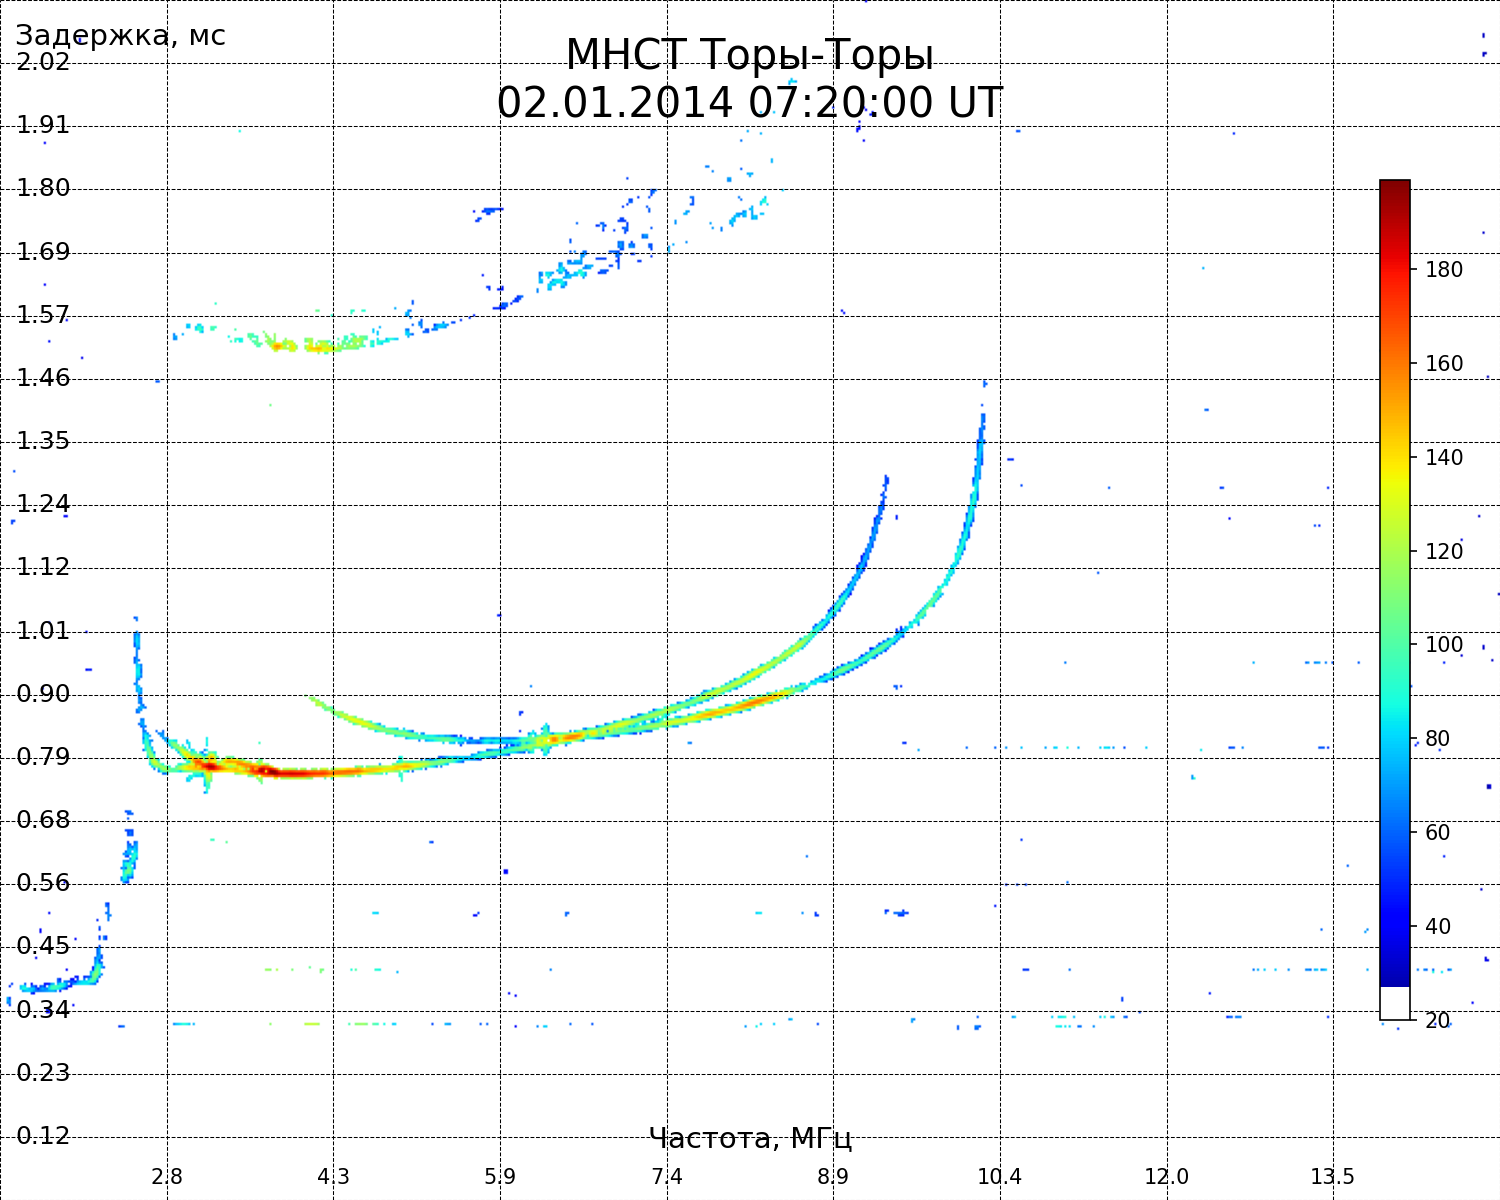
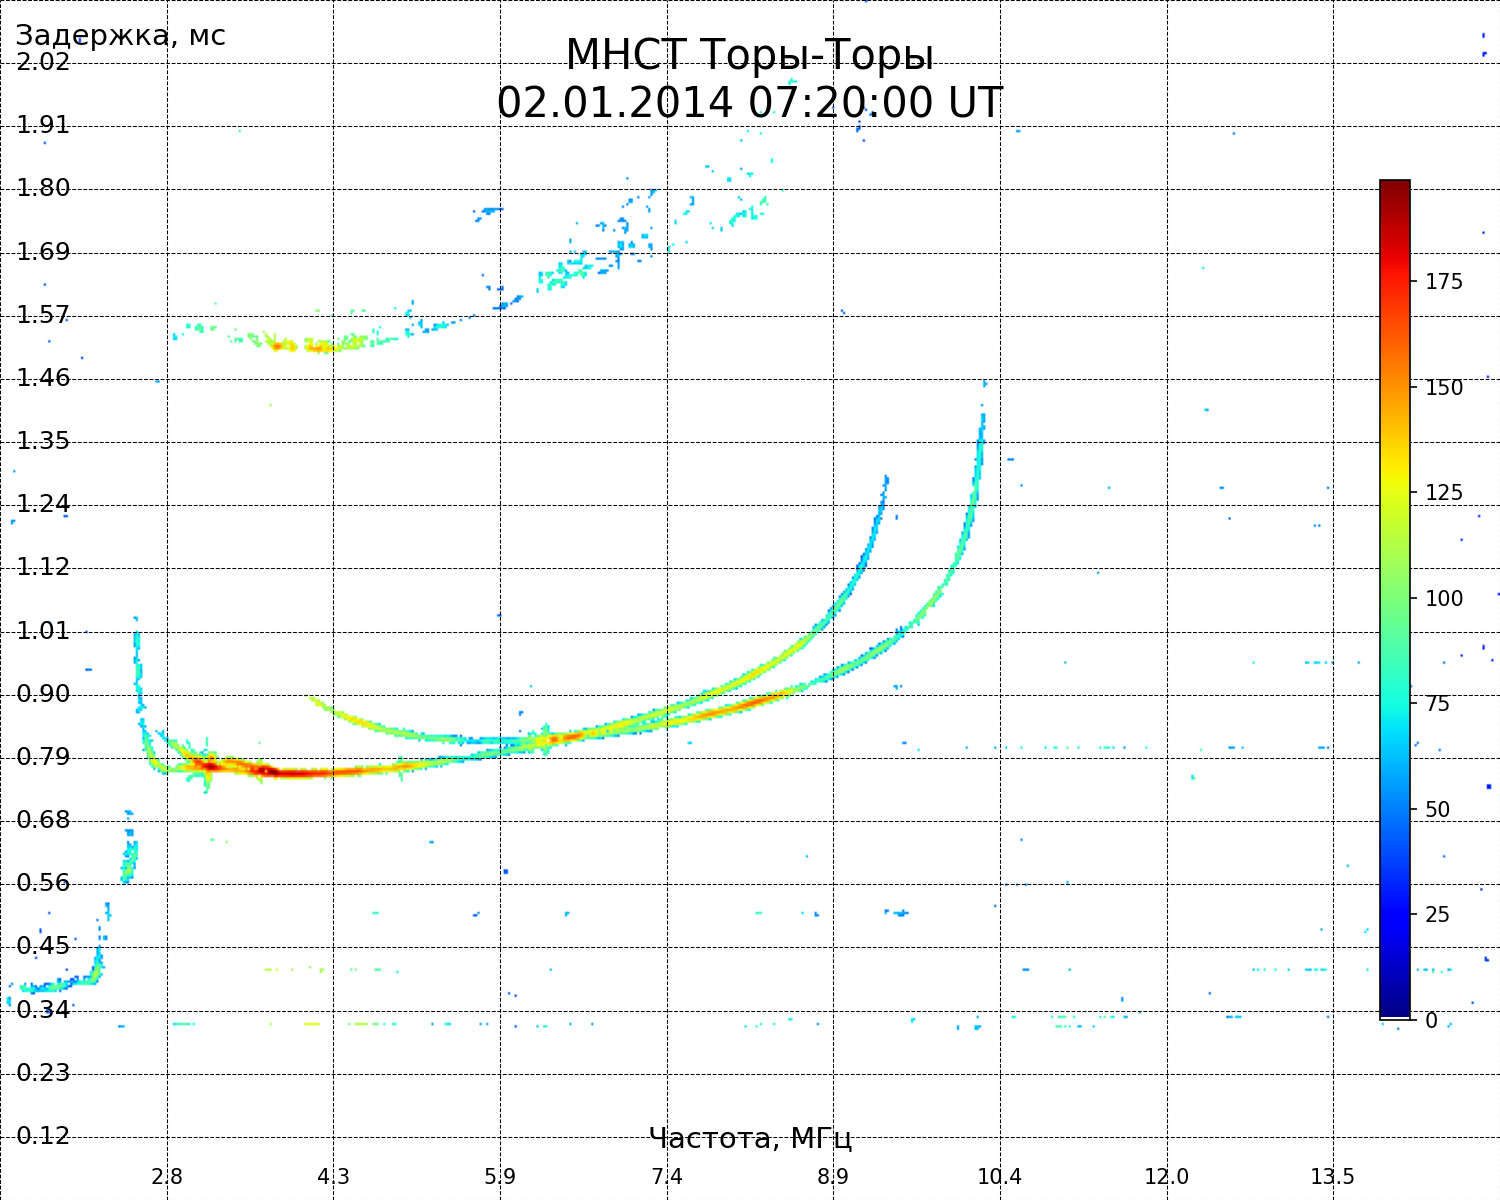
Closes #9; correct colorbasr and lib

diff --git a/main.py b/main.py
@@ -1,6 +1,220 @@
-from ionogram_visualizer import IonogramVisualizer, SimpleIonogramArrayBuilder
+from ionogram_visualizer import SimpleIonogramArrayBuilder
+# import ionread_python as ionread
+from ionogram_visualizer import  SimpleIonogramArrayBuilder
 import ionread_python as ionread
+import numpy as np
+from matplotlib import pyplot as plt
+from typing import Optional, Union
+import ionread_python as ionread
+from matplotlib.colors import ListedColormap
 
+class IonogramVisualizer:
+    """
+    Класс для визуализации ионограмм с настраиваемыми параметрами отображения.
+    """
+    
+    def __init__(self, style_settings: Optional[dict] = None):
+        """
+        Инициализация визуализатора с настройками стиля.
+        
+        :param style_settings: Словарь с настройками стиля matplotlib
+        """
+        self.default_style = {
+            'font.size': 12,
+            'text.color': 'black',
+            'figure.facecolor': 'black',
+            'axes.facecolor': 'black'
+        }
+        self.style_settings = style_settings or self.default_style
+        
+    def show_ionogram(
+        self,
+        ionogram: Union['ionread.Ionogram', None],
+        ion_arr: np.ndarray,
+        path: Optional[str] = None,
+        alphas: float = 0.5,
+        dpi: int = 100,
+        colorbar: bool = True,
+        figsize: tuple = (10, 8)
+    ) -> None:
+        """
+        Отображает ионограмму с настраиваемыми параметрами.
+        
+        :param ionogram: Объект ионограммы из ionread
+        :param ion_arr: Массив данных ионограммы
+        :param path: Путь для сохранения изображения
+        :param alphas: Прозрачность элементов (0-1)
+        :param dpi: Разрешение изображения
+        :param colorbar: Отображать цветовую шкалу
+        :param figsize: Размер фигуры (ширина, высота)
+        """
+        # Применение стиля
+        plt.style.use('default')
+        plt.rcParams.update(self.style_settings)
+        plt.rcParams.update({
+            'figure.dpi': dpi,
+            'savefig.dpi': dpi
+        })
+
+        # Создание фигуры с белым фоном
+        fig = plt.figure(figsize=figsize, facecolor='white')
+        ax = fig.add_axes([0, 0, 1, 1])
+        ax.set_facecolor('white')  # Устанавливаем белый фон для области данных
+        
+        # Получение границ данных
+        min_height = min(ionogram.data, key=lambda x: x.num_dist).dist 
+        max_height = max(ionogram.data, key=lambda x: x.dist).dist
+        min_freq = ionogram.passport.start_freq
+        max_freq = ionogram.passport.end_freq
+
+        # Создаем модифицированную цветовую карту с белым для низких значений
+        jet = plt.get_cmap('jet', 256)
+        newcolors = jet(np.linspace(0, 1, 256))
+        # Делаем первые N значений белыми (можно настроить в зависимости от ваших данных)
+        newcolors[0, :] = np.array([1, 1, 1, 1])  # белый цвет с полной непрозрачностью
+        white_jet = ListedColormap(newcolors)
+
+        # Отображение данных с белым фоном для низких значений
+        im = ax.imshow(
+            ion_arr,
+            origin='lower',
+            cmap=white_jet,
+            aspect='auto',
+            extent=[min_freq, max_freq, min_height, max_height]  # Отсекаем самые низкие значения
+        )
+        
+        # Настройка осей
+        self._configure_axes(ax, min_freq, max_freq, min_height, max_height, alphas)
+        
+        # Цветовая шкала
+        if colorbar:
+            self._add_colorbar(fig, im, alphas)
+
+        # Заголовок
+        first_line = f'{ionogram.passport.transmitter}-{ionogram.passport.receiver}'
+        second_line = f'{ionogram.passport.session_date} {ionogram.passport.session_time}'
+        title = f'{first_line}\n{second_line}'
+        ax.text(0.5, 0.97, title, transform=ax.transAxes, fontsize=20, color='black', ha='center', va='top', alpha=alphas)
+        
+        # Сохранение или отображение
+        if path:
+            plt.savefig(path, bbox_inches='tight', pad_inches=0, facecolor='white', dpi=dpi)
+        plt.close()
+
+        
+    
+    def _configure_axes(
+        self,
+        ax,
+        min_freq: float,
+        max_freq: float,
+        min_height: float,
+        max_height: float,
+        alphas: float
+    ) -> None:
+        """Настраивает оси и подписи."""
+        ax.set_xticks([])
+        ax.set_yticks([])
+        for spine in ax.spines.values():
+            spine.set_visible(False)
+        
+        # Сетка
+        freq_ticks = np.linspace(min_freq, max_freq, 10)
+        for freq in freq_ticks:
+            ax.axvline(
+                x=freq, 
+                color='black', 
+                linestyle='--', 
+                linewidth=0.5, 
+                alpha=alphas,
+                zorder=3  # Поверх imshow
+            )
+
+        # Горизонтальные линии (высоты)
+        height_ticks = np.linspace(min_height, max_height, 20)
+        for height in height_ticks:
+            ax.axhline(
+                y=height, 
+                color='black', 
+                linestyle='--', 
+                linewidth=0.5, 
+                alpha=alphas,
+                zorder=3
+            )
+    
+        
+        # Подписи шкал
+        y_ticks = np.linspace(min_height, max_height, 20)[1:-1]
+        for y in y_ticks:
+            ax.text(
+                min_freq + (max_freq - min_freq) * 0.01,
+                y,
+                f'{y/300:.2f}',
+                color='black', 
+                va='center',
+                alpha=alphas,
+                fontsize=12
+            )
+        
+        x_ticks = np.linspace(min_freq, max_freq, 10)[1:-1]
+        for x in x_ticks:
+            ax.text(
+                x,
+                min_height + (max_height - min_height) * 0.01,
+                f'{x/1000:.1f}',
+                color='black',
+                ha='center',
+                va='bottom',
+                alpha=alphas,
+                fontsize=10
+            )
+        
+        # Подписи осей
+        ax.text(
+            min_freq + (max_freq - min_freq) * 0.01,
+            max_height * 0.95+20,
+            'Задержка, мс', 
+            color='black', 
+            alpha=alphas,
+            fontsize=14,
+            va='top'
+        )
+        
+        ax.text(
+            (min_freq + max_freq) / 2,
+            min_height - (max_height - min_height) * 0.05 + 60,
+            'Частота, МГц',
+            color='black',
+            alpha=alphas,
+            fontsize=14,
+            ha='center'
+        )
+
+        
+    
+    def _add_colorbar(self, fig, im,alphas) -> None:
+        """Добавляет полностью прозрачную цветовую шкалу с полупрозрачными элементами."""
+        # Создаем ось для colorbar
+        cax = fig.add_axes([0.92, 0.15, 0.02, 0.7])
+        
+        # Добавляем colorbar
+        cbar = fig.colorbar(im, cax=cax)
+        
+        # Настройка прозрачности
+        cbar.ax.set_facecolor((0, 0, 0, 0))  # Полностью прозрачный фон
+        cbar.outline.set_edgecolor('black')   # Цвет границы
+        cbar.outline.set_alpha(alphas)          # Прозрачность границы
+        
+        # Делаем саму цветовую полосу полупрозрачной
+        cbar.solids.set_alpha(alphas)            # Прозрачность цветового градиента
+        
+        # Настройка текста и делений
+        cbar.ax.tick_params(colors='black', labelsize=10)
+        
+        # Дополнительные настройки для полной прозрачности
+        cbar.ax.patch.set_alpha(0)           # Прозрачность внутренней области
+        for spine in cbar.ax.spines.values(): # Прозрачность всех границ
+            spine.set_alpha(alphas)
 # Загрузка данных
 ionogram = ionread.read_ionogram('test_data/01_02_07_20_00.dat')
 
@@ -14,7 +228,6 @@ visualizer.show_ionogram(
     ionogram,
     ionogram_array,
     path="fullscreen_ionogram.png",
-    grid_alpha=1.0,
-    tick_alpha=1.0,
+    alphas=1.0,
     dpi=150
 )

diff --git a/ionogram_visualizer/visualizer.py b/ionogram_visualizer/visualizer.py
@@ -66,10 +66,10 @@ class IonogramVisualizer:
         max_freq = ionogram.passport.end_freq
 
         # Создаем модифицированную цветовую карту с белым для низких значений
-        jet = plt.cm.get_cmap('jet', 256)
+        jet = plt.get_cmap('jet', 256)
         newcolors = jet(np.linspace(0, 1, 256))
         # Делаем первые N значений белыми (можно настроить в зависимости от ваших данных)
-        newcolors[:10, :] = np.array([1, 1, 1, 1])  # белый цвет с полной непрозрачностью
+        newcolors[0, :] = np.array([1, 1, 1, 1])  # белый цвет с полной непрозрачностью
         white_jet = ListedColormap(newcolors)
 
         # Отображение данных с белым фоном для низких значений
@@ -78,8 +78,7 @@ class IonogramVisualizer:
             origin='lower',
             cmap=white_jet,
             aspect='auto',
-            extent=[min_freq, max_freq, min_height, max_height],
-            vmin=np.min(ion_arr) + 0.1 * (np.max(ion_arr) - np.min(ion_arr))  # Отсекаем самые низкие значения
+            extent=[min_freq, max_freq, min_height, max_height]  # Отсекаем самые низкие значения
         )
         
         # Настройка осей
@@ -88,11 +87,19 @@ class IonogramVisualizer:
         # Цветовая шкала
         if colorbar:
             self._add_colorbar(fig, im, alphas)
+
+        # Заголовок
+        first_line = f'{ionogram.passport.transmitter}-{ionogram.passport.receiver}'
+        second_line = f'{ionogram.passport.session_date} {ionogram.passport.session_time}'
+        title = f'{first_line}\n{second_line}'
+        ax.text(0.5, 0.97, title, transform=ax.transAxes, fontsize=20, color='black', ha='center', va='top', alpha=alphas)
         
         # Сохранение или отображение
         if path:
             plt.savefig(path, bbox_inches='tight', pad_inches=0, facecolor='white', dpi=dpi)
         plt.close()
+
+        
     
     def _configure_axes(
         self,
@@ -181,13 +188,9 @@ class IonogramVisualizer:
             ha='center'
         )
 
-        # Заголовок
-        first_line = f'{ionogram.passport.transmitter}-{ionogram.passport.receiver}'
-        second_line = f'{ionogram.passport.session_date} {ionogram.passport.session_time}'
-        title = f'{first_line}\n{second_line}'
-        ax.text(0.5, 0.97, title, transform=ax.transAxes, fontsize=20, color='black', ha='center', va='top', alpha=alphas)
+        
     
-    def _add_colorbar(self, fig, im, alphas) -> None:
+    def _add_colorbar(self, fig, im,alphas) -> None:
         """Добавляет полностью прозрачную цветовую шкалу с полупрозрачными элементами."""
         # Создаем ось для colorbar
         cax = fig.add_axes([0.92, 0.15, 0.02, 0.7])
@@ -210,4 +213,3 @@ class IonogramVisualizer:
         cbar.ax.patch.set_alpha(0)           # Прозрачность внутренней области
         for spine in cbar.ax.spines.values(): # Прозрачность всех границ
             spine.set_alpha(alphas)
-

diff --git a/script.py b/script.py
@@ -7,27 +7,26 @@ import ionread_python as ionread
 def main():
     parser = argparse.ArgumentParser(description="Визуализация ионограммы из .dat файла.")
     parser.add_argument("file_path", type=str, help="Путь к входному .dat файлу")
-    parser.add_argument("--grid_alpha", type=float, default=1.0, help="Прозрачность сетки (0.0 - 1.0)")
-    parser.add_argument("--tick_alpha", type=float, default=1.0, help="Прозрачность меток (0.0 - 1.0)")
+    parser.add_argument("--alpha", type=float, default=1.0, help="Прозрачность (0.0 - 1.0)")
     parser.add_argument("--dpi", type=int, default=150, help="Разрешение изображения (DPI)")
     parser.add_argument("--output", type=str, default="fullscreen_ionogram.png",
                         help="Путь для сохранения изображения")
 
     args = parser.parse_args()
 
-    # Проверка корректности значений
-    if not (0.0 <= args.grid_alpha <= 1.0):
-        parser.error("grid_alpha должен быть в диапазоне [0.0, 1.0]")
-    if not (0.0 <= args.tick_alpha <= 1.0):
-        parser.error("tick_alpha должен быть в диапазоне [0.0, 1.0]")
+    if not (0.0 <= args.alpha <= 1.0):
+        parser.error("alpha должен быть в диапазоне [0.0, 1.0]")
     if args.dpi <= 0:
         parser.error("dpi должно быть положительным целым числом")
 
     try:
         # Загрузка данных
         ionogram = ionread.read_ionogram(args.file_path)
+        print(f"Данные ионограммы: {ionogram.data}")  # Проверка структуры данных
+        print(f"Паспорт ионограммы: {ionogram.passport}")  # Возможно, это метаданные
 
-        # Создание массива ионограммы
+        # Если SimpleIonogramArrayBuilder ожидает 'metadata', можно попробовать передать passport
+        # Или модифицировать класс, чтобы он принимал passport
         ionogram_array = SimpleIonogramArrayBuilder(ionogram).process().get_ndarray()
 
         # Визуализация
@@ -36,8 +35,7 @@ def main():
             ionogram,
             ionogram_array,
             path=args.output,
-            grid_alpha=args.grid_alpha,
-            tick_alpha=args.tick_alpha,
+            alphas=args.alpha,
             dpi=args.dpi
         )
         print(f"Изображение успешно сохранено: {args.output}")
